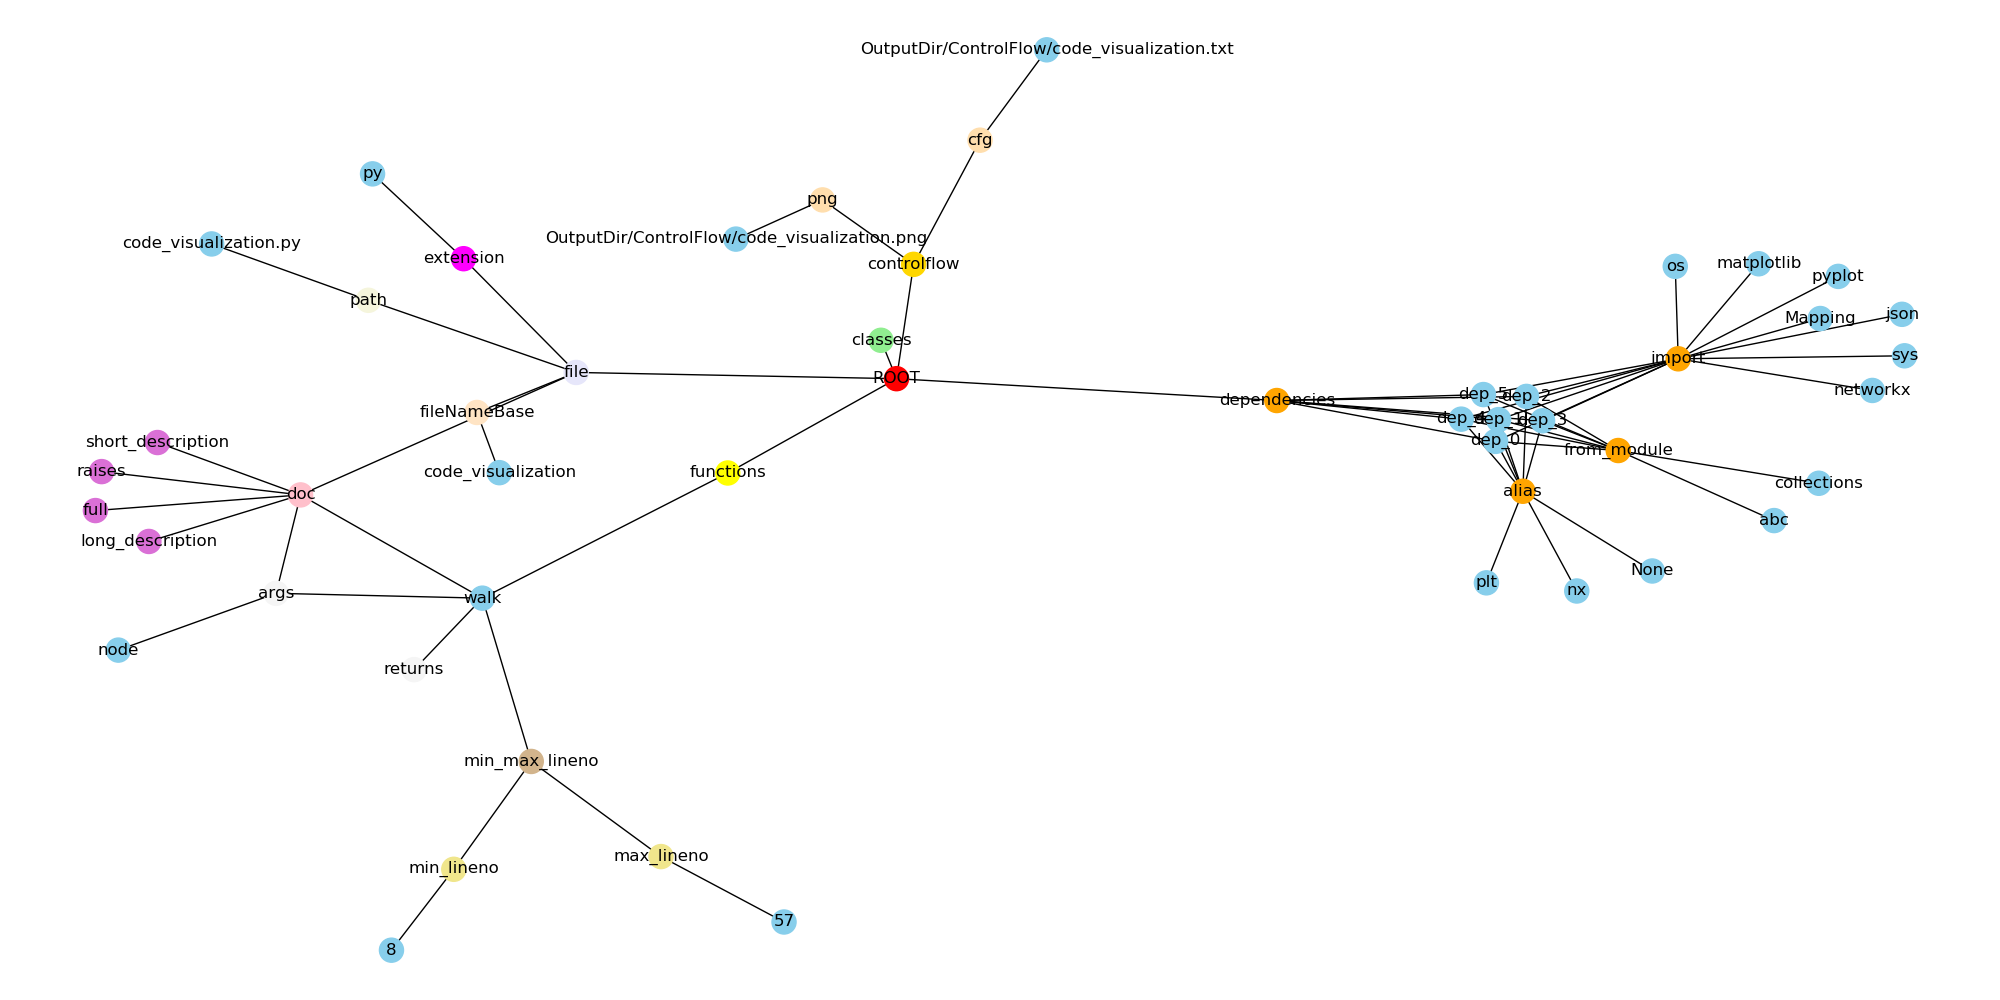
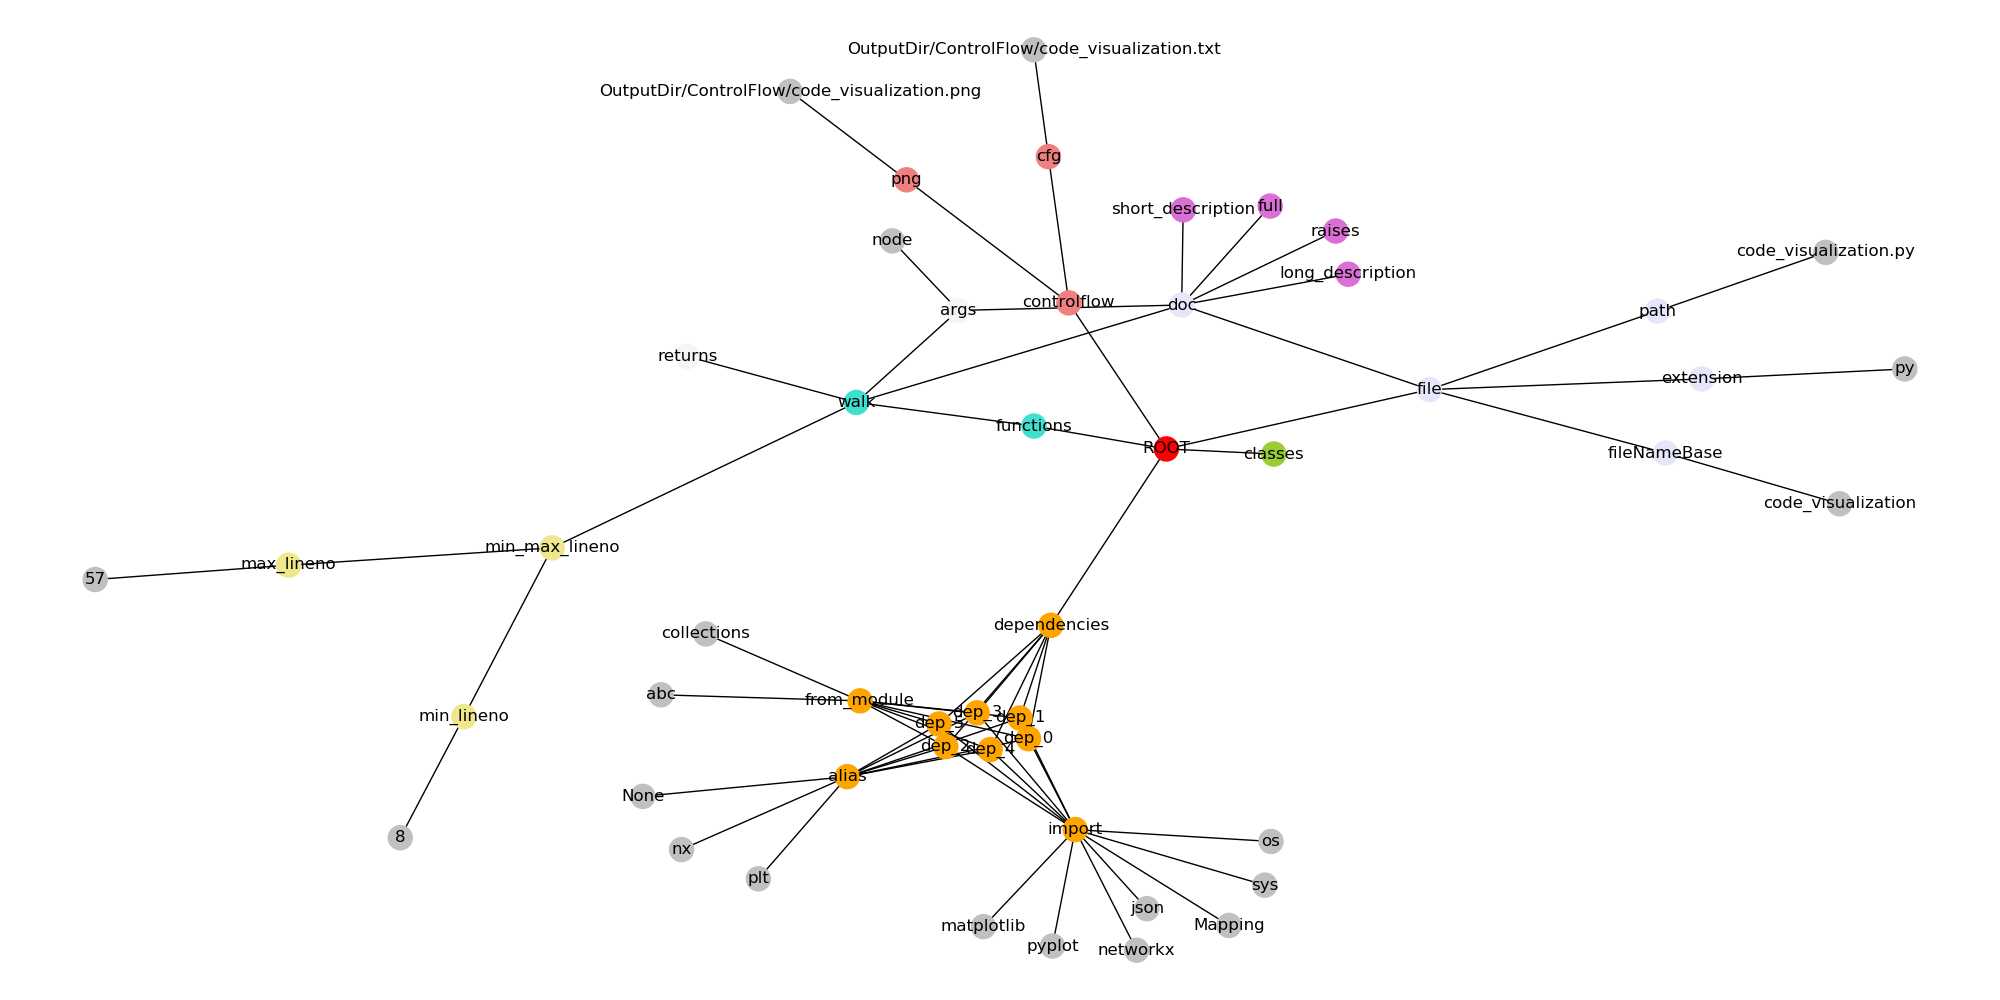
update

diff --git a/code_visualization.py b/code_visualization.py
@@ -32,6 +32,8 @@ def walk(node):
                                                    print("6. Adding %s to %s" %(c,b))
                                                    if isinstance(node[key][i][e][f][a][b][c], Mapping):
                                                        for d in node[key][i][e][f][a][b][c]:
+                                                           G.add_edge(c, d)
+                                                           print("7a. Adding %s to %s" %(d,c))
                                                            G.add_edge(d, node[key][i][e][f][a][b][c][d])
                                                            print("7. Adding %s to %s" %(node[key][i][e][f][a][b][c][d],d))
                                                    else:
@@ -86,24 +88,23 @@ if __name__ == "__main__":
         if node == "ROOT": 
              color_map.append('red')
              node_size.append(100)
-        elif node in js.keys():
-             if node == "file":
-                 color_map.append('lavender')
-                 node_size.append(100)
-             elif node == "dependencies":
-                 color_map.append('orange')
-                 node_size.append(100)
-             elif node == "classes":
-                 color_map.append('lightgreen')
-                 node_size.append(100)
-             elif node == "functions":
-                 color_map.append('yellow')
-                 node_size.append(100)
-             elif node == "controlflow":
-                 color_map.append('gold')
-                 node_size.append(100)
+        elif node == "file" or node in js["file"].keys():
+             color_map.append('lavender')
+             node_size.append(100)
+        elif node == "dependencies" or node in js["dependencies"].keys():
+             color_map.append('orange')
+             node_size.append(100)
+        elif node == "classes" or node in js["classes"].keys():
+             color_map.append('yellowgreen')
+             node_size.append(100)
+        elif node == "functions" or node in js["functions"].keys():
+             color_map.append('turquoise')
+             node_size.append(100)
+        elif node == "controlflow":
+             color_map.append('lightcoral')
+             node_size.append(100)
         elif node == "doc":
-            color_map.append('pink')
+            color_map.append('orchid')
             node_size.append(100)
         elif node == "args":
             color_map.append('whitesmoke')
@@ -112,7 +113,7 @@ if __name__ == "__main__":
             color_map.append('whitesmoke')
             node_size.append(100)
         elif node == "min_max_lineno":
-            color_map.append('tan')
+            color_map.append('khaki')
             node_size.append(100)
         elif node == "min_lineno":
             color_map.append('khaki')
@@ -121,19 +122,19 @@ if __name__ == "__main__":
             color_map.append('khaki')
             node_size.append(100)
         elif node == "extension":
-            color_map.append('magenta')
+            color_map.append('bisque')
             node_size.append(100)
         elif node == "fileNameBase":
             color_map.append('bisque')
             node_size.append(100)
         elif node == "path":
-            color_map.append('beige')
+            color_map.append('bisque')
             node_size.append(100)
         elif node == "cfg":
-            color_map.append('navajowhite')
+            color_map.append('lightcoral')
             node_size.append(100)
         elif node == "png":
-            color_map.append('navajowhite')
+            color_map.append('lightcoral')
             node_size.append(100)
         elif node == "full":
             color_map.append('orchid')
@@ -159,7 +160,7 @@ if __name__ == "__main__":
        
  
         else:
-            color_map.append('skyblue')
+            color_map.append('silver')
             node_size.append(100)
     
     plt.figure(figsize=(20,10))
